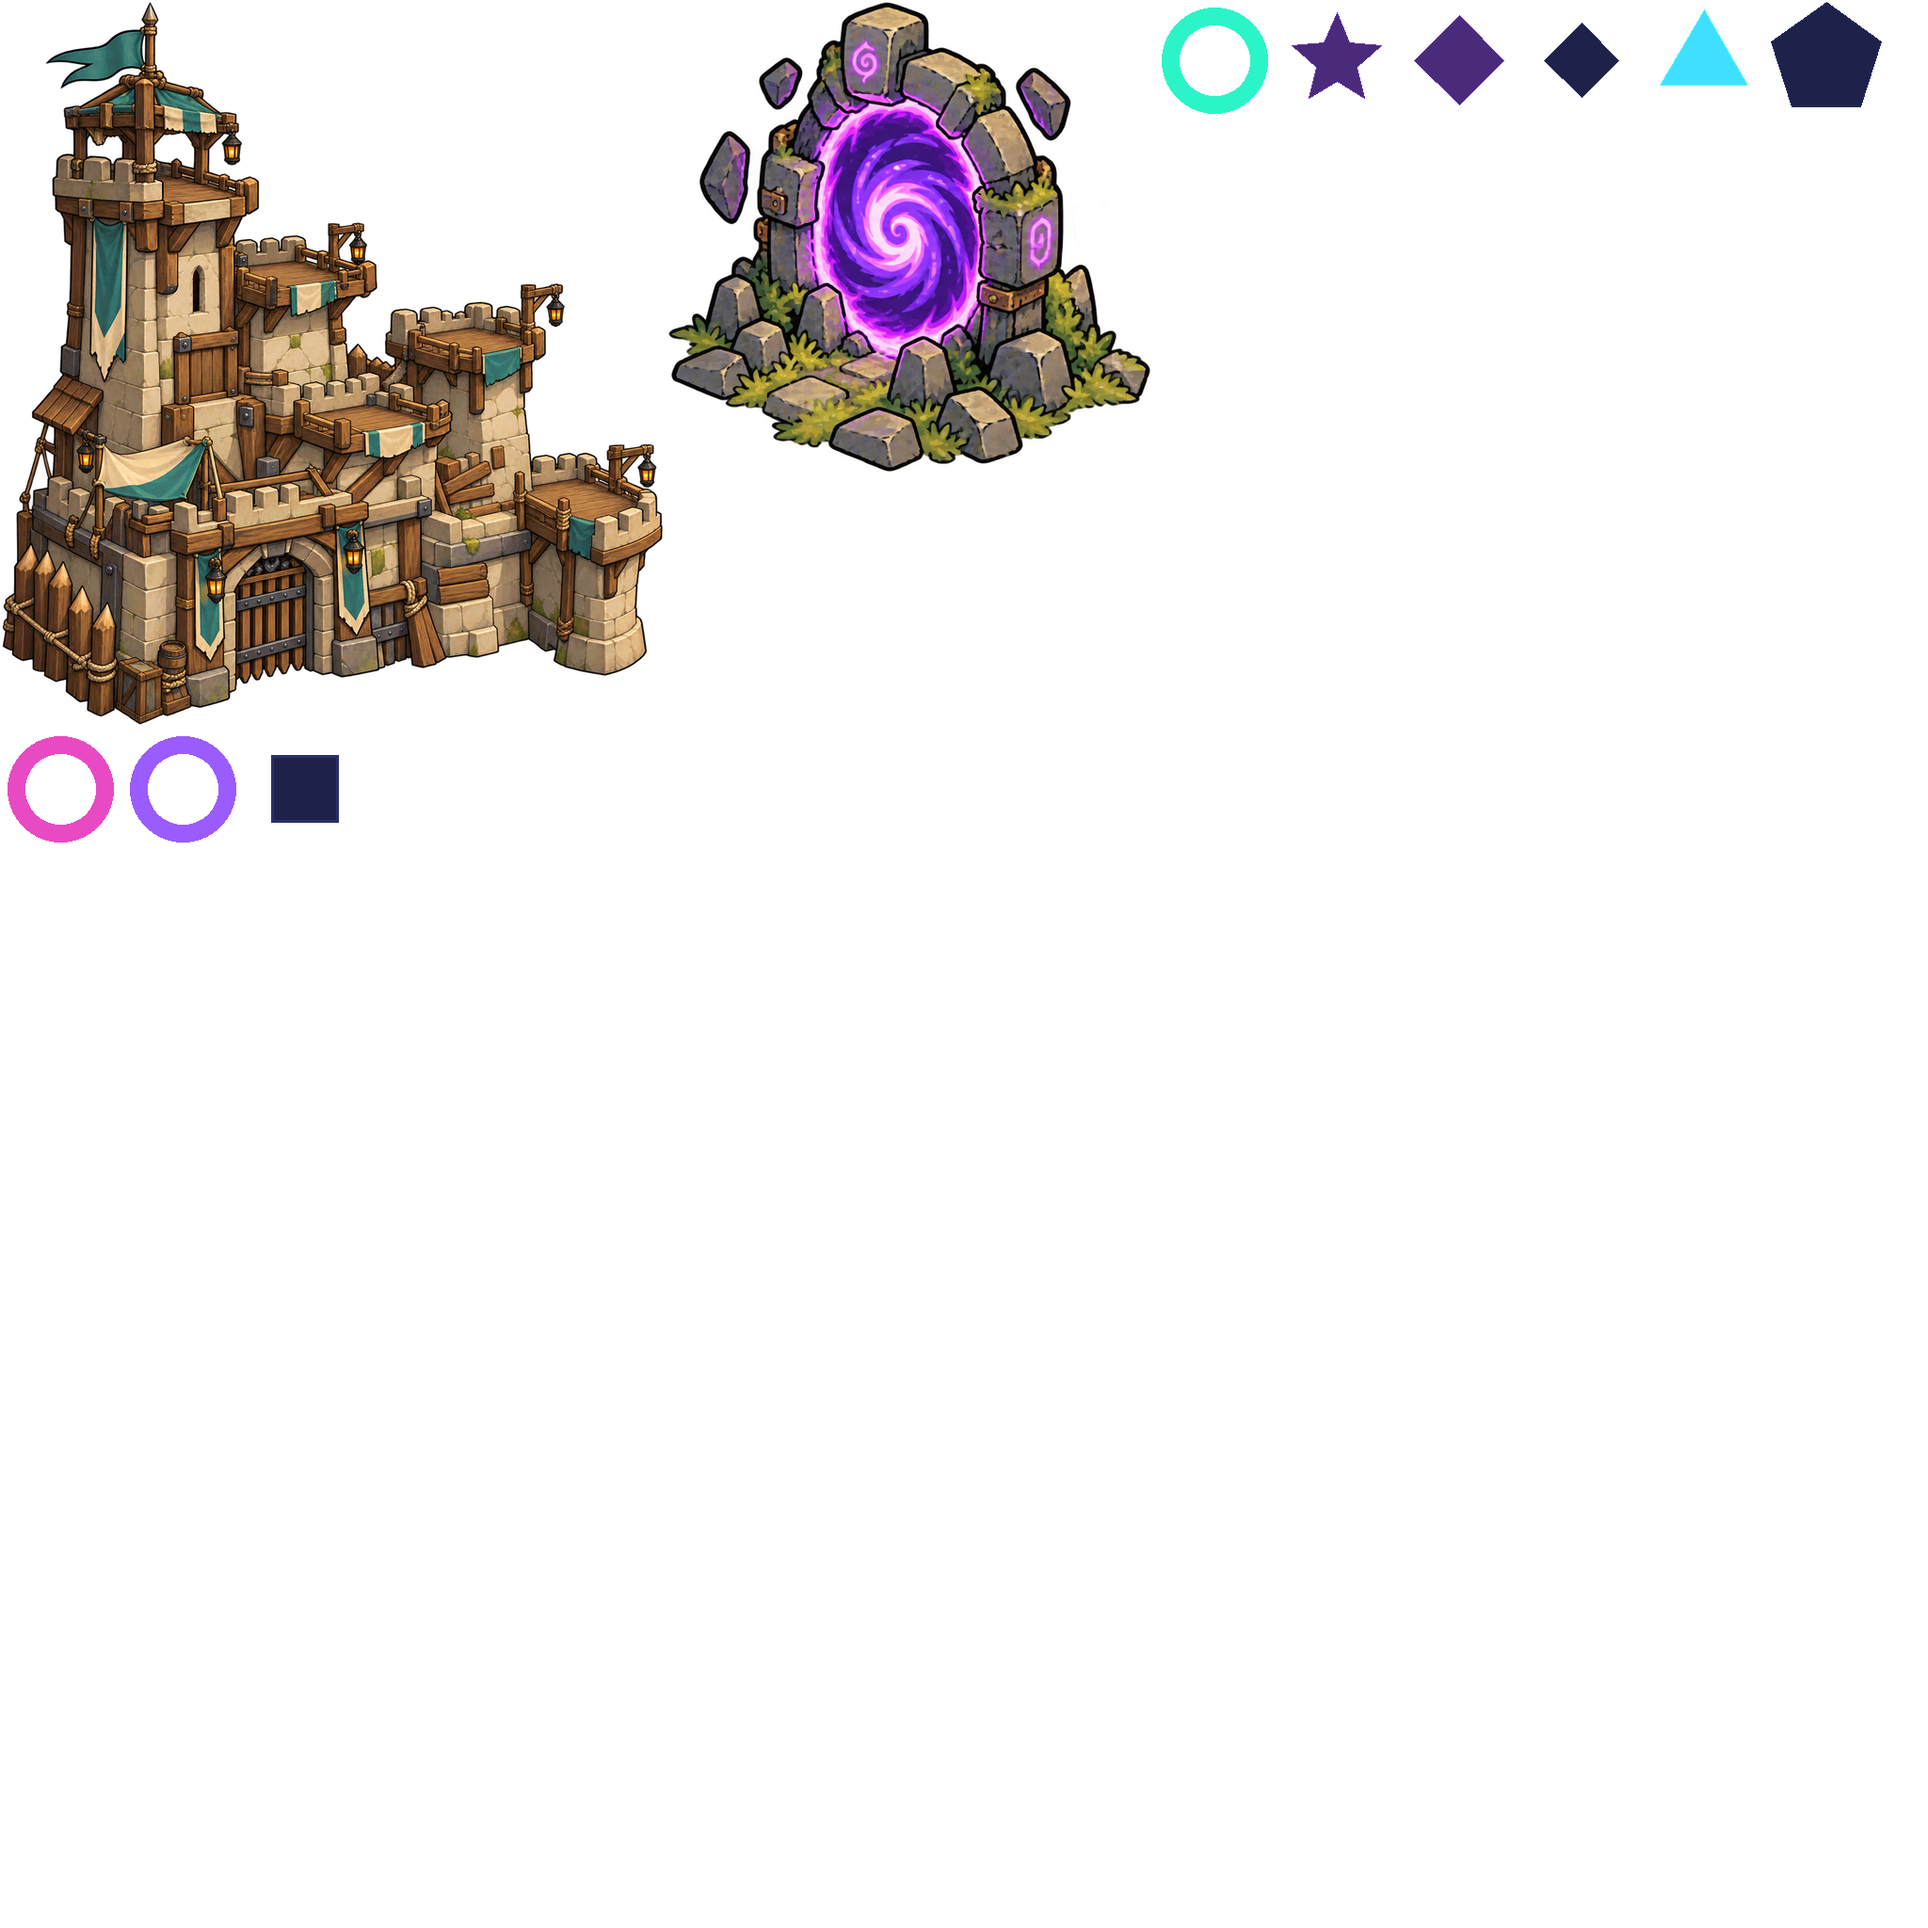
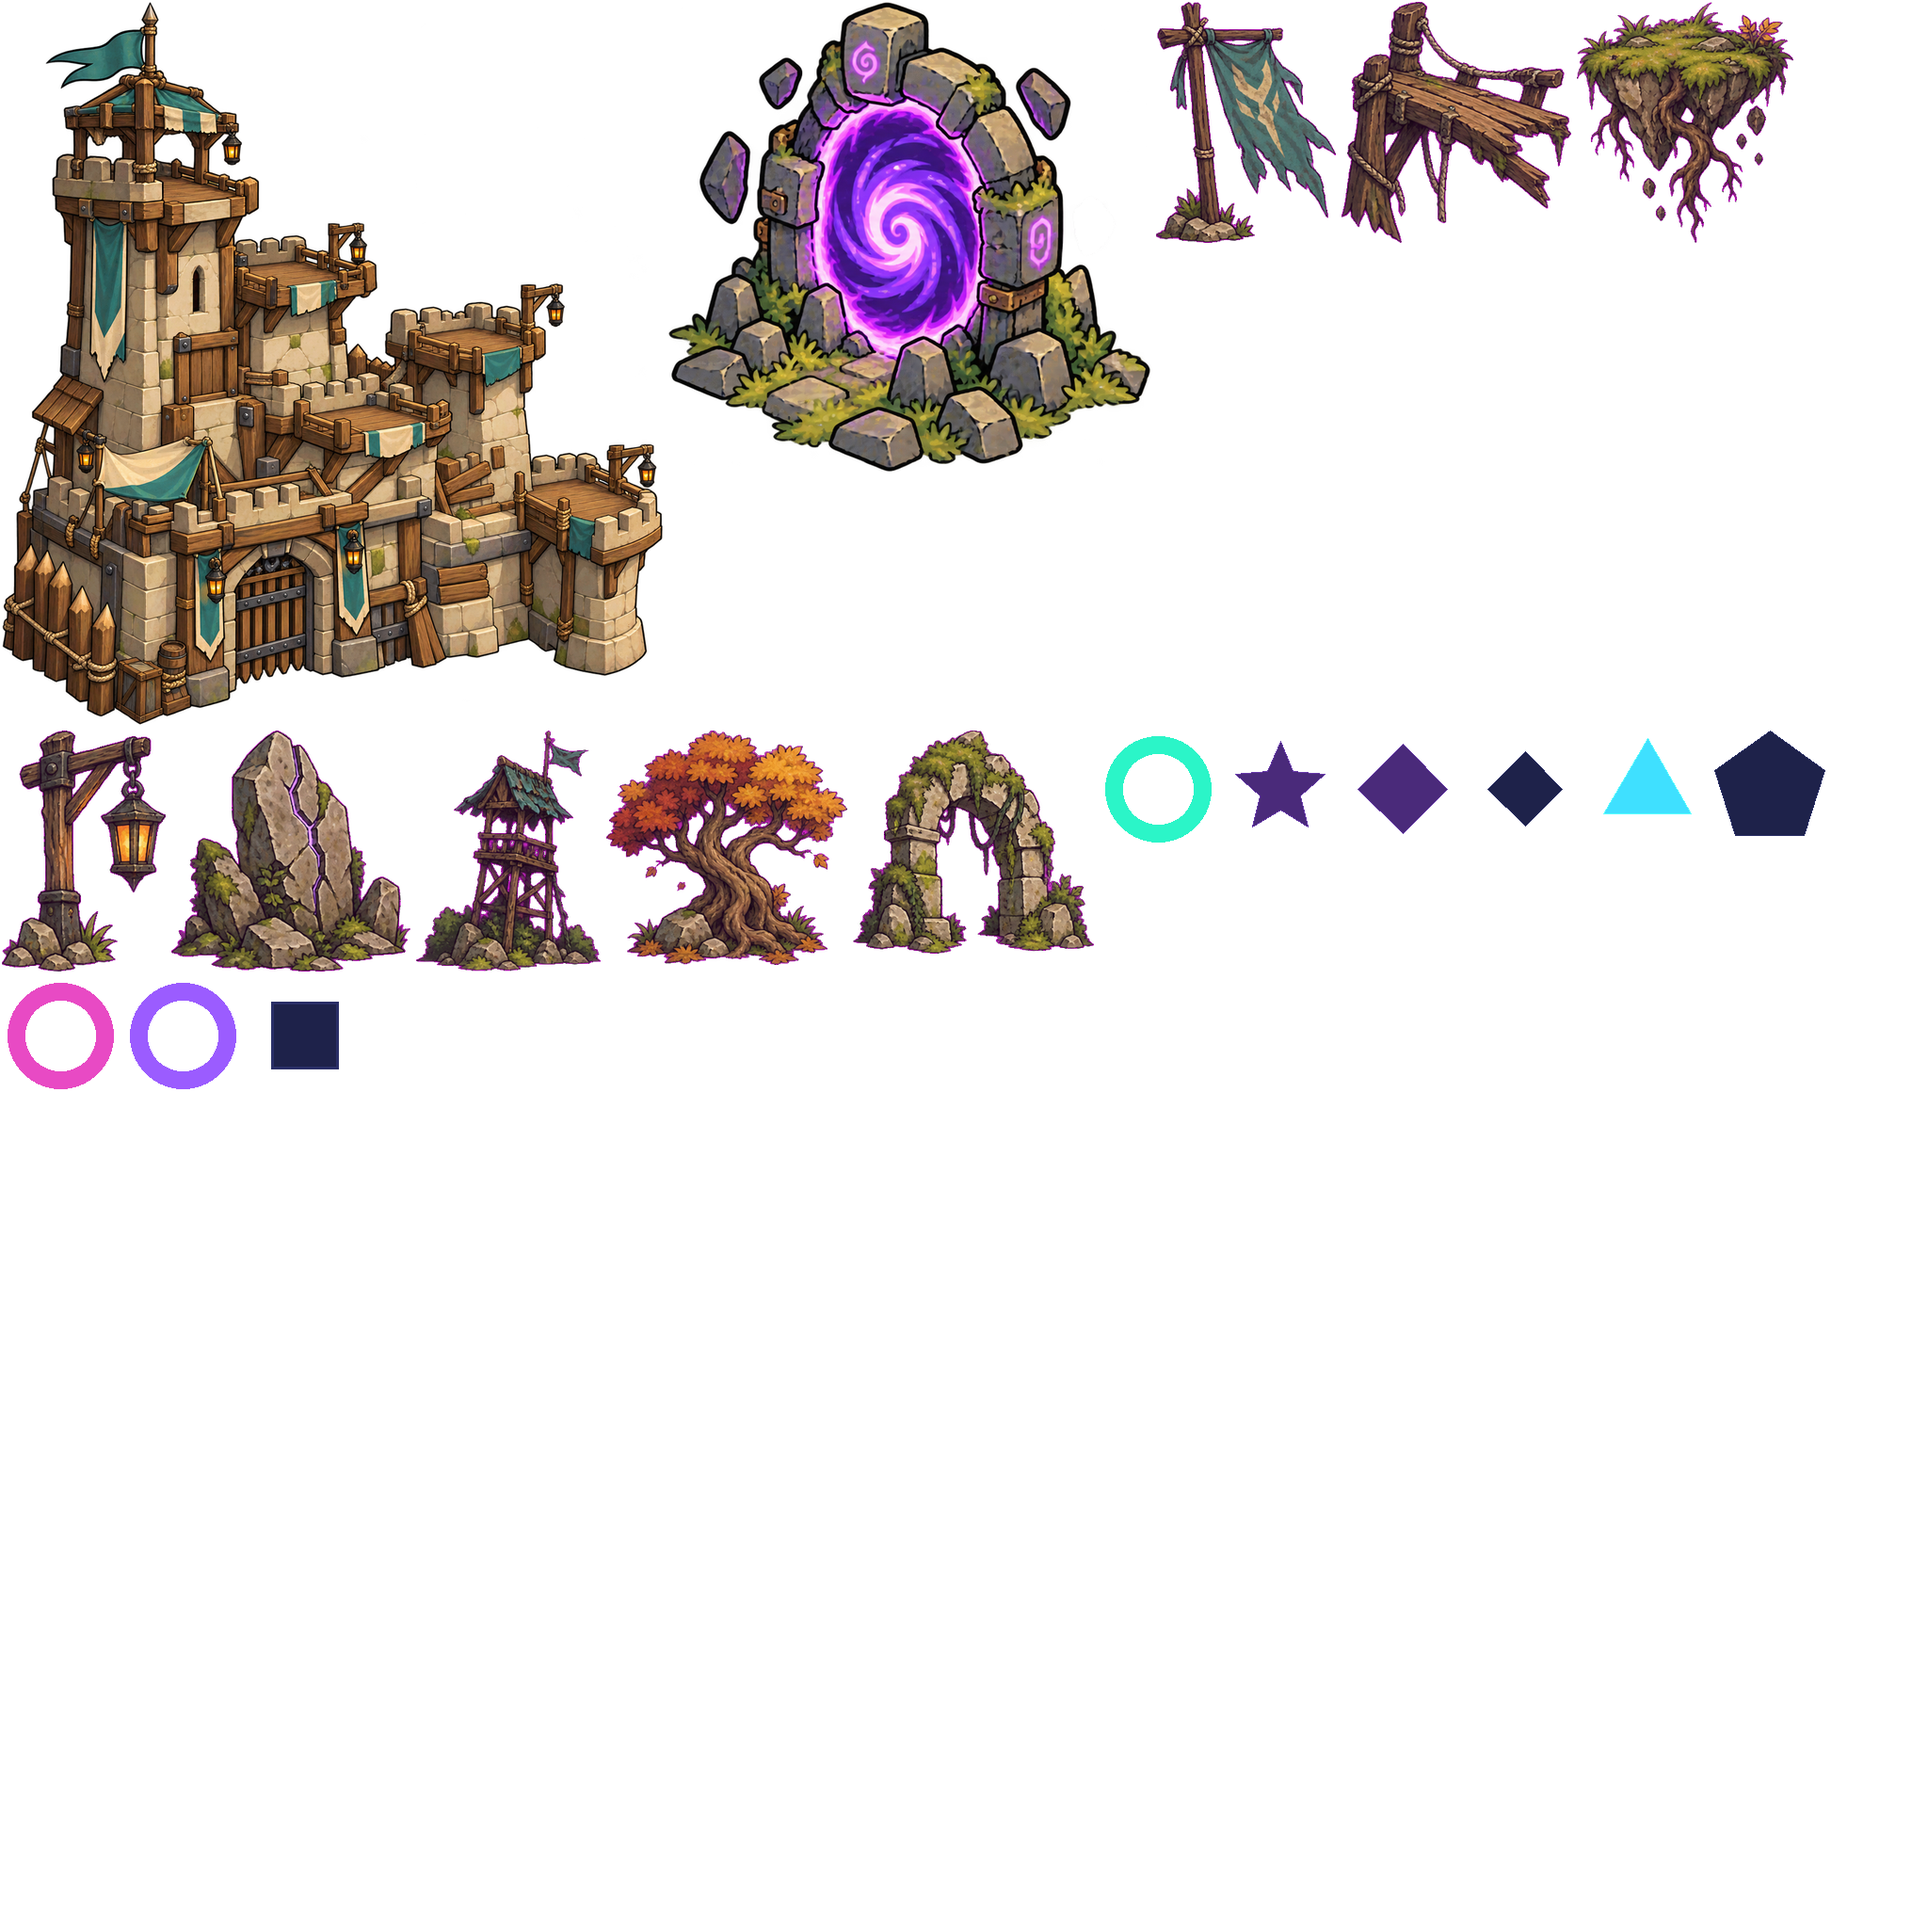
cevre objeleri world atlasina eklendi, ortam dekorlari yeni objelere tasindi
Claude-Session: https://claude.ai/code/session_01NSW2yJmBcbpoppxrkio1sB

Changed region(s): [[0.0, 0.375, 0.75, 0.5625], [0.5938, 0.0, 0.9688, 0.125], [0.7812, 0.375, 0.9375, 0.4375]]

diff --git a/docs/UI_MIGRATION_PLAN.md b/docs/UI_MIGRATION_PLAN.md
@@ -93,6 +93,7 @@ Default worker: Sonnet 5 Medium · Planner/reviewer: Opus
 | ARTINT-06 | DONE (Gemini Flash Medium, 0 fix; units/enemies/fx recipes -> `cells`, enemies tolerance 40/soft 30; engine names kept, ART-12 extras added unused: proj_arc, proj_explosive, hit_chain, field_*; atlases units 512, enemies/fx 1024; no engine change -> watch on device: sprite scale, facing (enemies face left), FPS) | ARTINT-06 commit |
 | ARTINT-07 | DONE (Gemini Flash High, 1 timeout resume; bg image fitted to field rect + 8px edge stretch for letterbox, fallback flat paint; citadel/portal aspect kept; world atlas 2048; RISK: castle rect y 0.42-0.60 (h 0.18) while slots span y 0.33-0.69 -> defenders may stand outside fortress art; needs device check + possible castle scale/slot realignment round) | ARTINT-07 commit |
 | ARTINT-05 | DONE (Gemini Flash Medium, 0 fix; RwDisplay=Lilita One, body Nunito (Latin/Cyrillic), NotoSansArabic, NotoSansThai; CJK null = system font (user decision, 47 MB); variable fonts -> watch bold weights on device; next doc task: CLAUDE.md/AGENTS.md "Fonts henuz bundle degil" trap is stale) | ARTINT-05 commit |
+| ARTINT-08 | DONE (Gemini Flash Medium, 0 fix; 8 props via `props.json` cells into world atlas; environments.json decor ids remapped, positions unchanged; old world sprites left for UI-CLEAN; watch on device: decor over painted ART-07 background may clutter or cover lane) | ARTINT-08 commit |
 | ART-03 (asset) | APPROVED (intake sheet, 19 icons) | not committed (intake) |
 | ART-02 (asset) | APPROVED (intake sheet 4x2, 7 pieces) | not committed (intake) |
 | ART-10 (asset) | APPROVED after 1 revision (watch on device: arc_overcharge horned dummy, titan_juggernaut enemy-like golem) | intake: ART-10_1.png (4x2, 8), ART-10_2.png (4x2, 5) |
